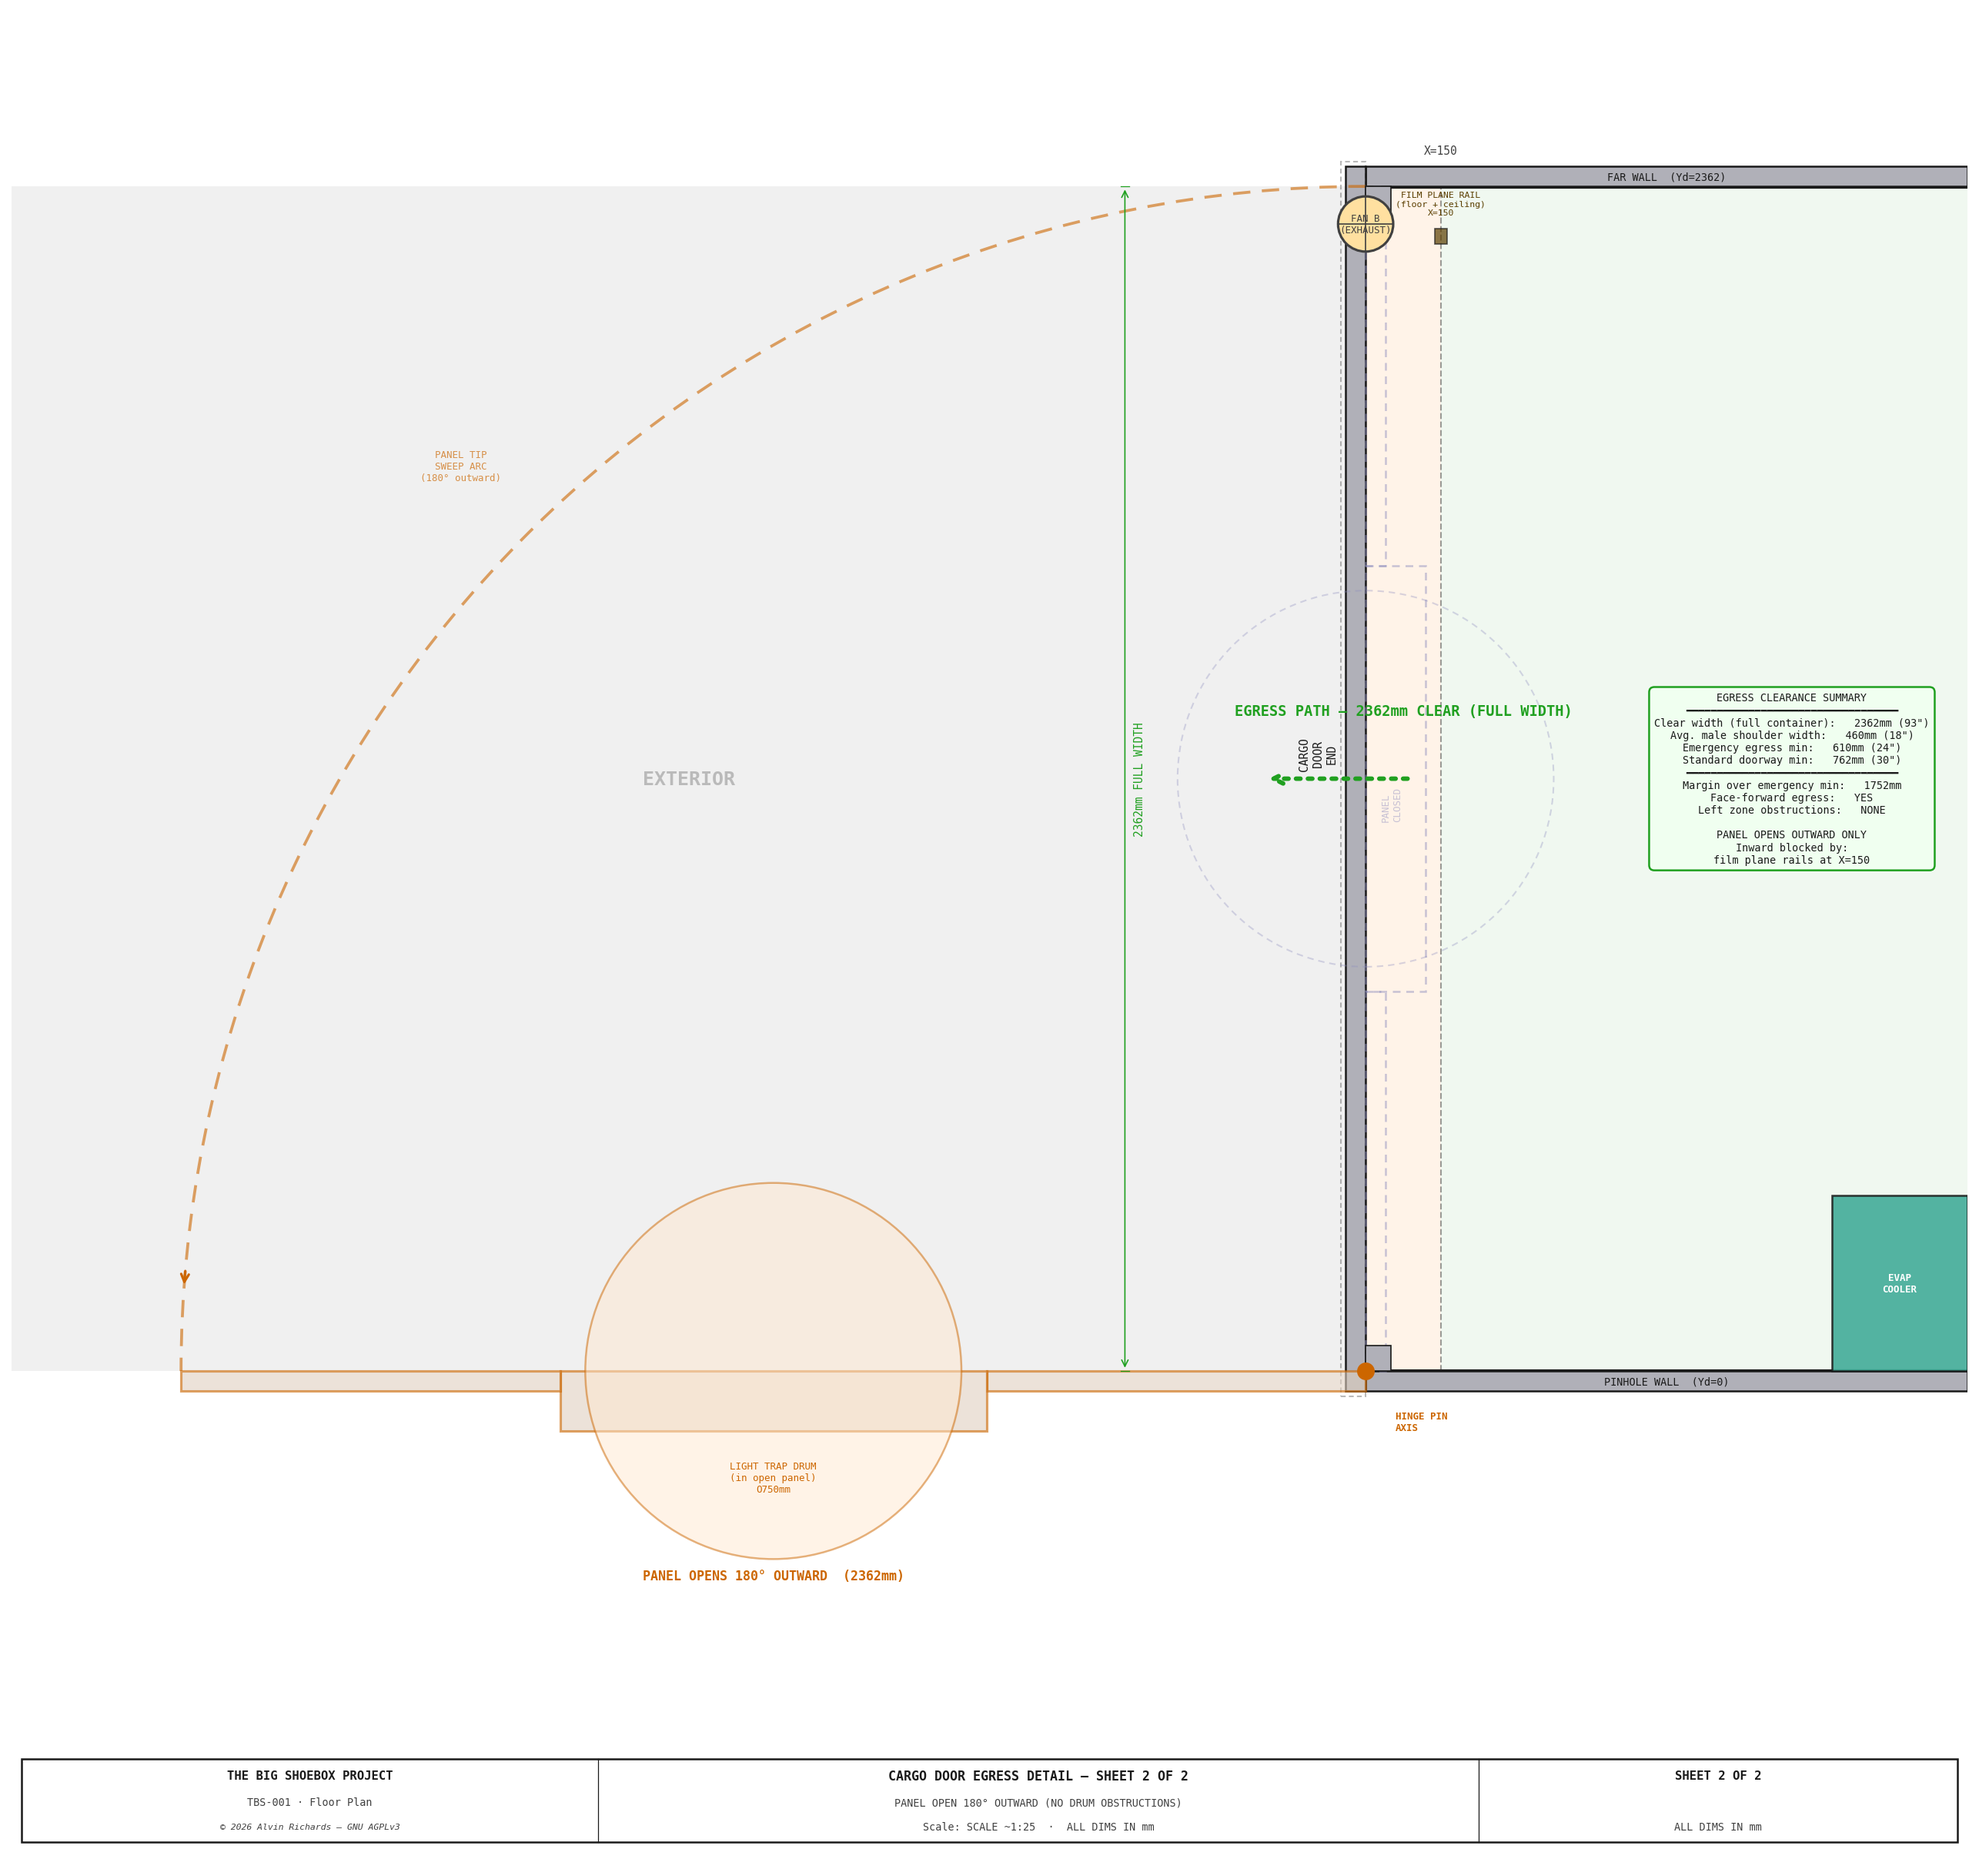
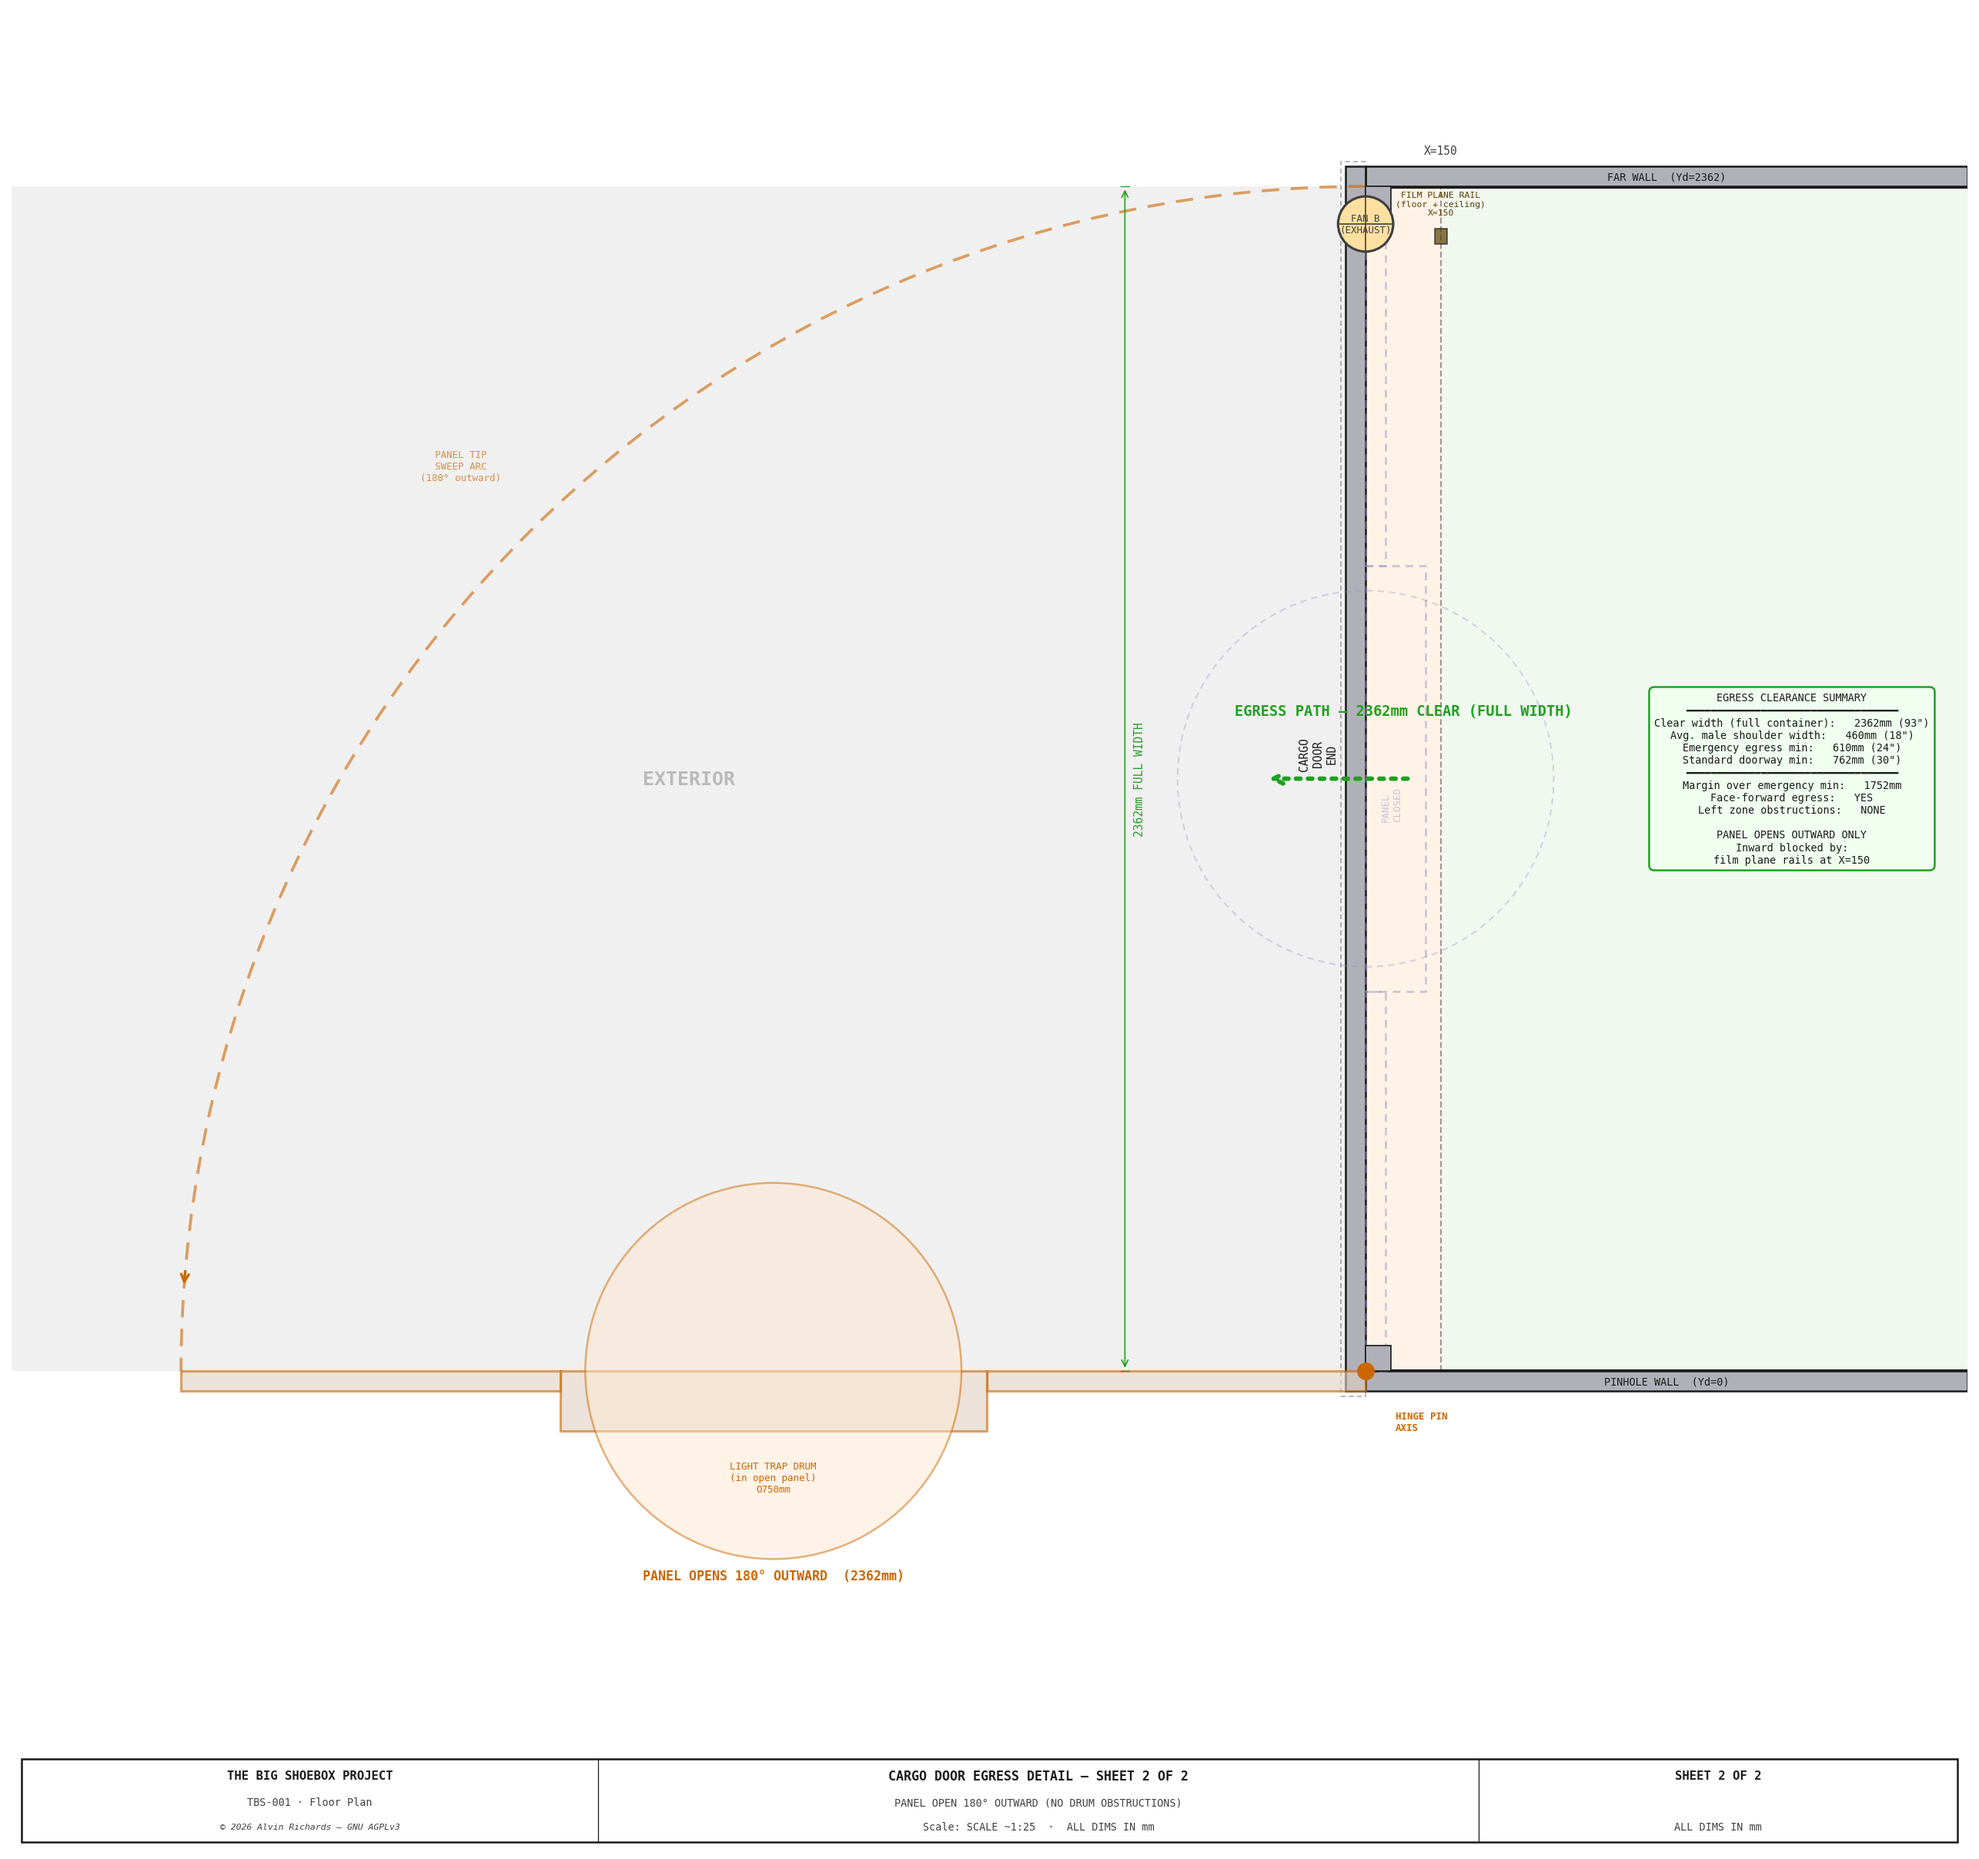
Floorplan: apply rev 7 reorg — duct penetration, equip panel in IBC corridor
Replace evap cooler block with duct penetration circle, remove pump
manifold from pinhole wall, add equipment panel in IBC plumbing
corridor, separate EP and battery blocks, add widened walkway section,
update legend and tray description.

Changed region(s): [[0.9024, 0.6211, 0.9957, 0.7453]]

diff --git a/generate_floorplan_diagram.py b/generate_floorplan_diagram.py
@@ -17,7 +17,7 @@ Coordinate system (all mm):
 
 Equipment layout — end-zone design rev 5 (4-IBC 2×2 stack, drums eliminated):
   Left end zone  (X=0–150):    light trap drum only (freed up by drum removal)
-  Pinhole wall   (Yd=0 face):  evap cooler (X=930–1530) + electrical panel + pump manifold
+  Pinhole wall   (Yd=0 face):  duct penetration (X=1200) + electrical panel + battery bank
   Optical zone   (X=150–4649): film plane rails only — floor clear
   Right end zone (X=4649–5893): 4× IBC in 2×2 stack (2 columns × 2 high)
 
@@ -195,22 +195,24 @@ def floor_plan():
     penetration(ax, 0, DRUM_FP_CY, r=80,
                 col=C_PINHOLE, label="DRUM\nINLET", label_offset=(-180, -30))
 
-    # Evap cooler — on pinhole wall face (Yd=0), X=930–1530mm
-    equip_rect(ax, EVAP_X, EVAP_Y, EVAP_W, EVAP_D, C_EVAP,
-               f"EVAP\nCOOLER\n{EVAP_W}×{EVAP_D}", zorder=6)
-    ax.text(EVAP_X + EVAP_W/2, EVAP_Y + EVAP_D + 55,
-            "▲ 800mm tall", color=C_EVAP, fontsize=5.5,
-            ha="center", va="bottom", **FONT, zorder=7)
+    # Evap duct penetration — cooler is external (rev 7)
+    penetration(ax, EVAP_DUCT_X, 0, r=EVAP_DUCT_D / 2, col=C_EVAP,
+                label=f"EVAP DUCT\nØ{EVAP_DUCT_D}\n(EXT. COOLER)",
+                label_offset=(0, EVAP_DUCT_D / 2 + 60))
 
     # (waste drums and dolly tracks eliminated in rev 5 — left zone now light trap only)
 
     # ── PINHOLE WALL (Y=0 face) — wall-mounted items ──────────────────────────
-    # Electrical panel + battery (thin strip at Y=0)
+    # Electrical panel (thin strip at Y=0) — raised to Z=1600–2200
     equip_rect(ax, EP_X, 0, EP_W, 80, C_ELEC,
-               "ELEC+\nBATT.", zorder=7, alpha=0.95)
-    # Pump manifold
-    equip_rect(ax, PUMP_X, 0, PUMP_W, 80, C_PUMP,
-               "PUMP\nMFD.", zorder=7, alpha=0.95)
+               "ELEC\nPANEL", zorder=7, alpha=0.95)
+    # Battery bank (slim profile, 120mm depth)
+    equip_rect(ax, BA_X, 0, BA_W, BA_D, C_BATT,
+               "BATT.", zorder=7, alpha=0.85)
+
+    # ── EQUIPMENT PANEL (IBC plumbing corridor, Yd=1046) ────────────────────
+    equip_rect(ax, EQPANEL_X, CORRIDOR_YD_NEAR, EQPANEL_W, CORRIDOR_W,
+               C_PUMP, "EQUIP PANEL\n(PUMPS+FILTERS)", zorder=7, alpha=0.8)
 
     # External power panel (flush-mount, exterior of pinhole wall)
     PP_DEPTH = 60   # schematic depth on exterior face
@@ -301,7 +303,7 @@ def floor_plan():
     ax.text((PROC_TRAY_X_L + PROC_TRAY_X_R) / 2,
             (PROC_TRAY_YD_NEAR + PROC_TRAY_YD_FAR) / 2,
             "PROCESSING TRAY  (304 SS, 50mm rim)\n"
-            "spray bar wash · sump pickup (P-04) to 3W-DV-02",
+            f"spray bar wash · sump at X={PROC_TRAY_DRAIN_X} (slope to IBC corner)",
             color=C_DIM, fontsize=6.5, ha="center", va="center", **FONT,
             alpha=0.7, zorder=4)
 
@@ -377,6 +379,18 @@ def floor_plan():
                          fc=C_WALKWAY, ec=C_DIM, lw=0.8, hatch=WK_HATCH,
                          alpha=WK_ALPHA, zorder=2))
 
+    # Near walkway widened section (EP/BAT zone, 500mm) — rev 7
+    WIDE_EXTRA = WALKWAY_NEAR_WIDE_W - W  # extra 200mm beyond standard 300mm
+    ax.add_patch(Rectangle(
+        (WALKWAY_NEAR_WIDE_X_L, NY + W), WALKWAY_NEAR_WIDE_X_R - WALKWAY_NEAR_WIDE_X_L, WIDE_EXTRA,
+        fc="#E8FFE8", ec="#66AA66", lw=1.0, ls="--", hatch=WK_HATCH,
+        alpha=0.4, zorder=2))
+    ax.text((WALKWAY_NEAR_WIDE_X_L + WALKWAY_NEAR_WIDE_X_R) / 2,
+            NY + W + WIDE_EXTRA / 2,
+            f"WIDENED\n{WALKWAY_NEAR_WIDE_W}mm",
+            color="#448844", fontsize=5, ha="center", va="center",
+            fontweight="bold", **FONT, zorder=5)
+
     # Butt joint lines at corners
     C_MITER = C_DIM  # reuse color variable name
     butt_lines = [
@@ -426,9 +440,10 @@ def floor_plan():
         (C_BLUE_IBC,  "Blue IBC ×2 (clean water, top tier)"),
         (C_BROWN_IBC, "Brown IBC ×1 (recycle, bottom near)"),
         (C_WASTE_IBC, "Waste IBC ×1 (bottom far)"),
-        (C_EVAP,    "Evaporative cooler"),
-        (C_ELEC,  "Electrical panel + battery bank"),
-        (C_PUMP,  "Pump manifold"),
+        (C_EVAP,    "Evap duct penetration (cooler external)"),
+        (C_ELEC,  "Electrical panel"),
+        (C_BATT,  "Battery bank (slim 120mm)"),
+        (C_PUMP,  "Equipment panel (pumps+filters, IBC corridor)"),
         (C_FILM,      f"Muslin image plane ({FP_W}×{FP_H}mm)"),
         (C_PINHOLE,   f"Pinhole Ø{PH_D}mm"),
         (C_OPT,       "Optical axis (2362mm focal length)"),
@@ -695,11 +710,10 @@ def egress_detail():
     penetration(ax, 0, FAN_B_YD, r=55, col=C_DIM,
                 label="FAN B\n(EXHAUST)", label_offset=(0, -22))
 
-    # ── Evap cooler (partially visible at right edge) ────────────────────────
-    evap_vis_w = min(EVAP_W, X_HI - EVAP_X)
-    if evap_vis_w > 0:
-        equip_rect(ax, EVAP_X, EVAP_Y, evap_vis_w, EVAP_D, C_EVAP,
-                   "EVAP\nCOOLER", zorder=6)
+    # ── Evap duct penetration (partially visible at right edge) ──────────────
+    if EVAP_DUCT_X < X_HI:
+        penetration(ax, EVAP_DUCT_X, 0, r=EVAP_DUCT_D / 2, col=C_EVAP,
+                    label=f"EVAP DUCT Ø{EVAP_DUCT_D}", label_offset=(0, 70))
 
     # ── EGRESS PATH ──────────────────────────────────────────────────────────
     # With drums eliminated (rev 5), the full container width is clear for egress.
